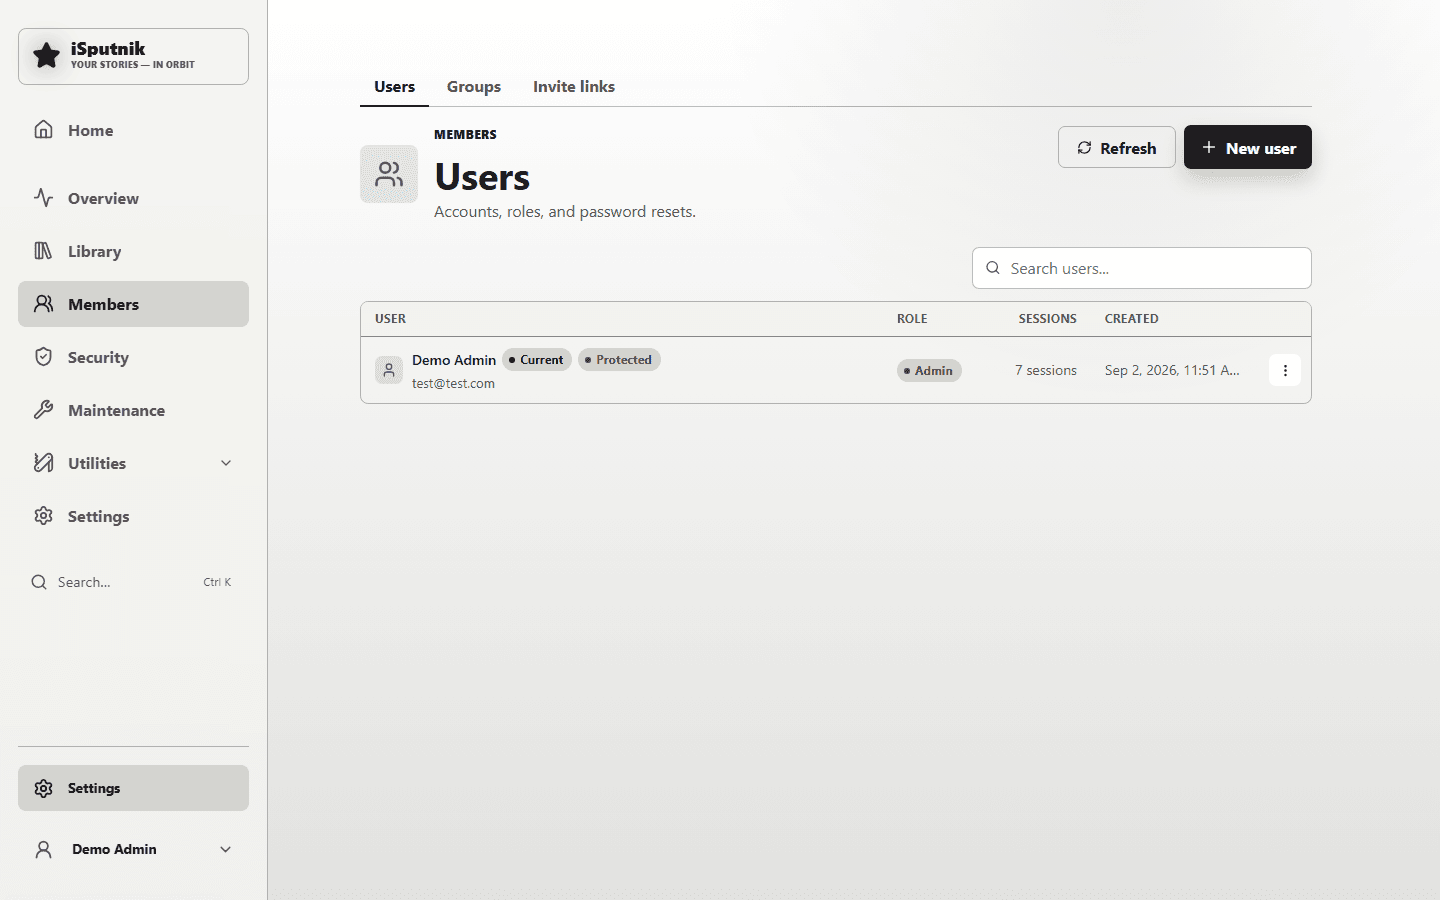
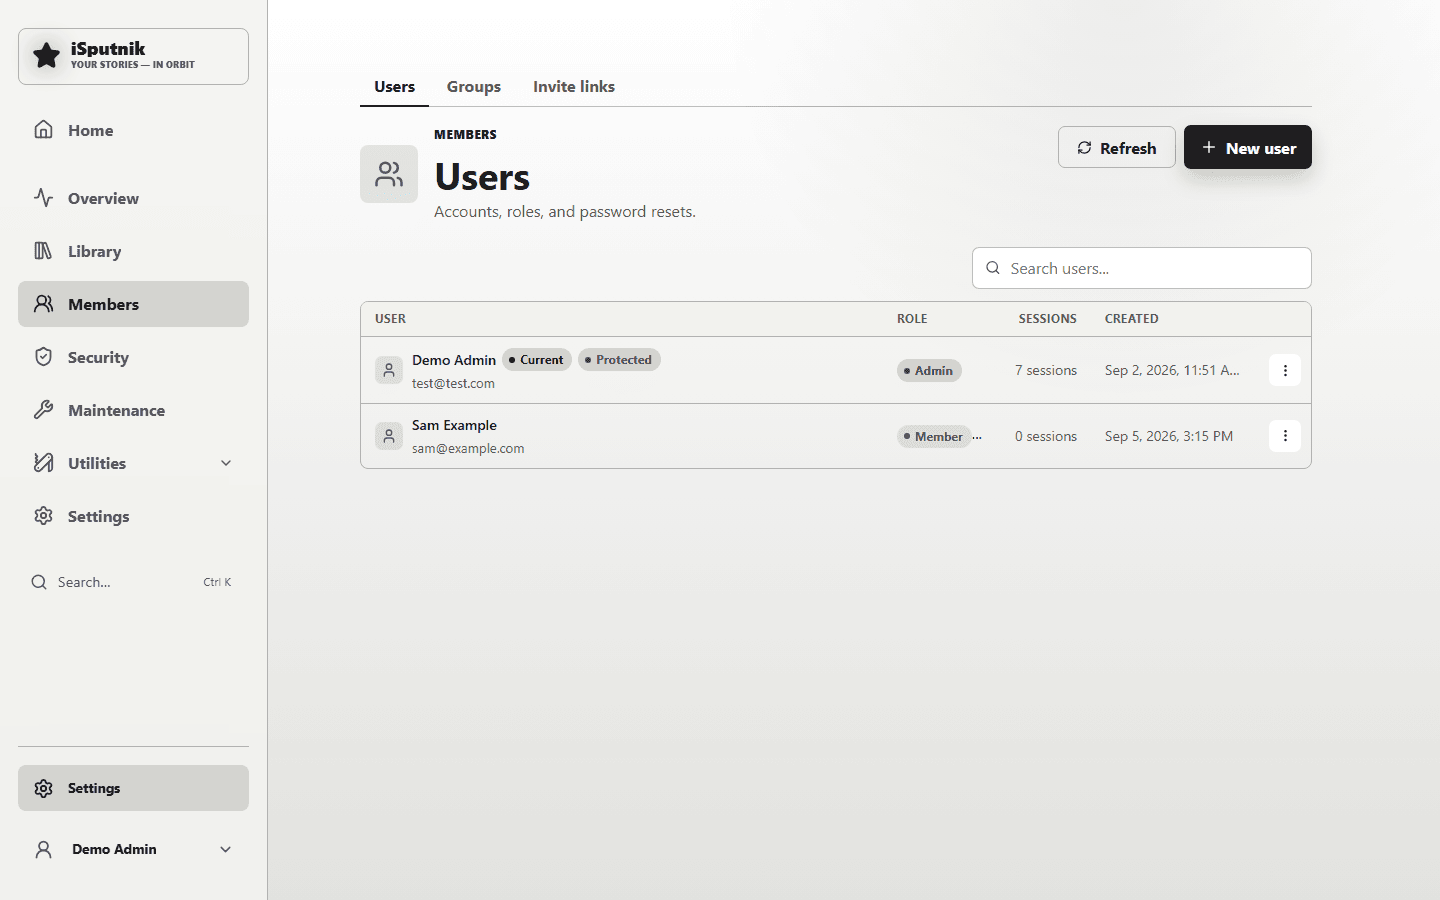
docs(guides): illustrate sharing — every guide now has a picture
Two shots of the Send-to dialog, which is the whole of family-sharing.md: the
People side listing the household to pick from, and the Share-link side with
its expiry, label and the warning that a link is shown once.

That was the last guide without a picture. All nineteen now carry at least one,
across forty-three images.

The share-link panel is captured deliberately BEFORE a link is created. The app
says a link is shown once and never again; a screenshot is a poor place to put
a working token, even a revocable one for a book anybody can read.

The People shot needed a second account to exist — with one, the dialog says
"There is nobody else on this server yet", which documents the empty case
rather than the feature. The members and groups shots are recaptured for the
same reason: they showed a one-person server with an empty group.

diff --git a/docs/users/family-sharing.md b/docs/users/family-sharing.md
@@ -6,12 +6,17 @@ somewhere: a member of the household, your own e-reader, or anyone at all
 through a link.
 
 There is nothing to set up, and nothing new to learn per page. The button sits
-in the same place on everything.
+in the same place on everything — and it always offers the same three
+destinations, whatever you pressed it on:
+
+![The Send to dialog on a book, with People, Share link and E-reader](images/42-share-link.png)
 
 ## Sending something to someone
 
 Open the thing, press **Send to**, pick a name, and add a line if you want to.
 That's it.
+
+![The People side of Send to, listing the household to pick from](images/43-share-people.png)
 
 What they get is a **pointer, not a copy**. Nothing is emailed, nothing is
 duplicated, and no file leaves the server. They open it in their own account,
@@ -79,6 +84,12 @@ want it.
 The last destination makes a guest link: no account needed, expires on a date
 you choose, revocable at any time. This is the one to use for people outside the
 household. See [Sharing](../sharing.md) for the details.
+
+It is shown in the picture above, chosen: pick how long it should last, give it
+a label so you can tell your links apart later, and **Create link**. The link
+itself appears once and is never shown again — only its fingerprint is kept — so
+copy it straight away, and make a separate link per person if you want to be able
+to revoke them one at a time.
 
 ## When somebody sends you something
 
